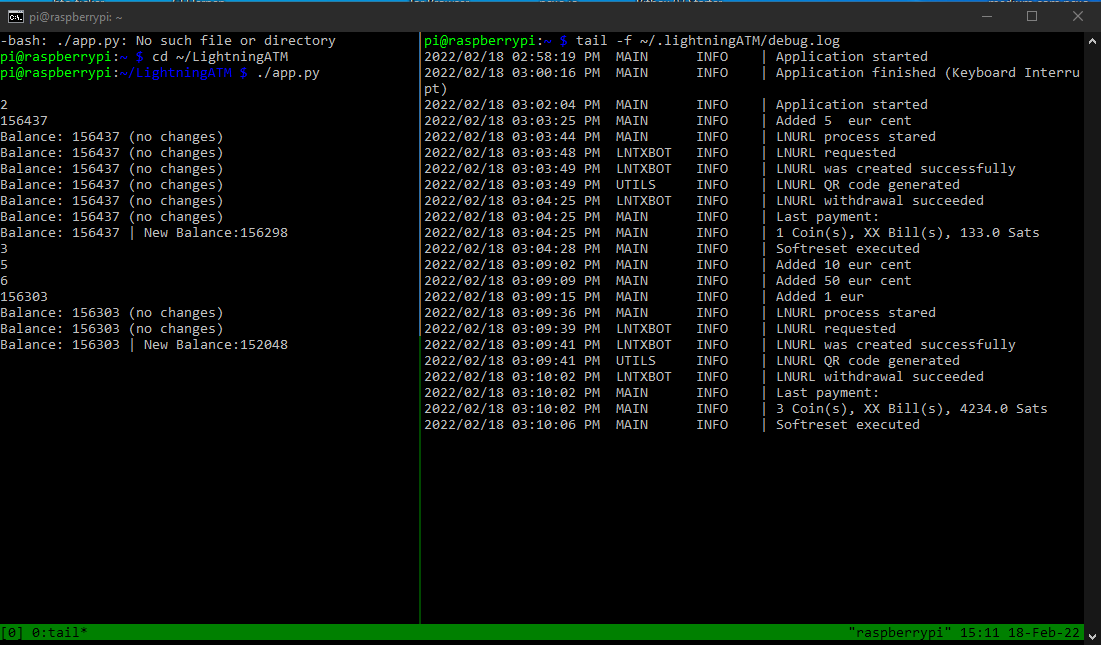
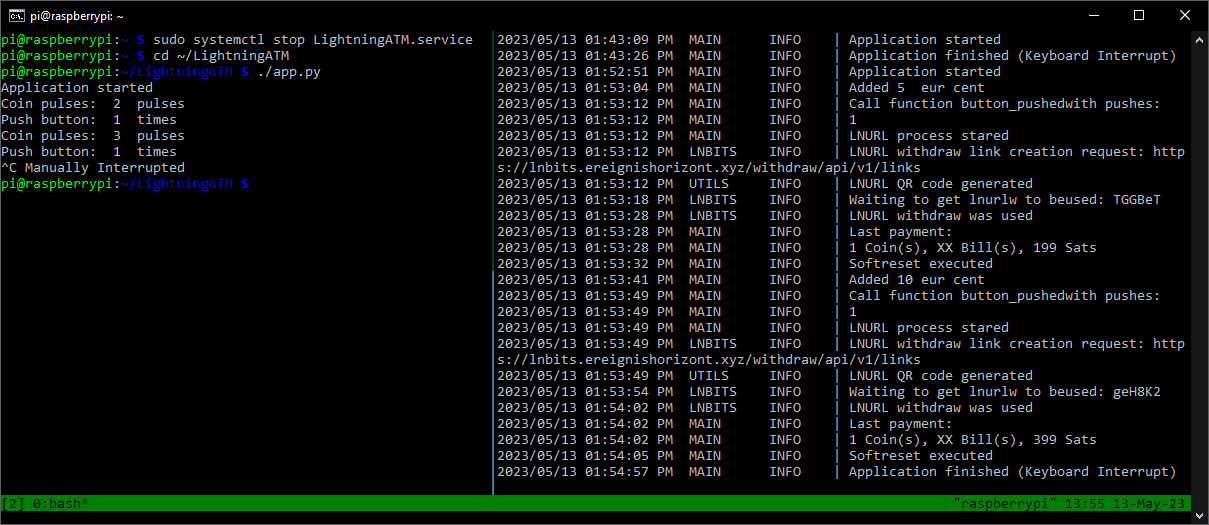
Update docu for lnbits api
Add help page for LNbits Wallet
Add display test picture und possible error and solution

Changed region(s): [[0.0, 0.0, 1.0, 1.0], [0.0, 0.4267, 0.2779, 0.5486]]

diff --git a/docs/guide/perform_update.md b/docs/guide/perform_update.md
@@ -1,0 +1,84 @@
+## Instruction to update the ATM 📜🧐
+
+We have now added LNbits as a new funding source for the LightningATM. 🎉
+
+### 1. Quick guide on how to set up an LNbits wallet
+
+A quick guide how to set up an LNbits wallet find [here](/docs/guide/set_up_an_lnbits_wallet.md)
+
+### 2. Update the LigthningATM 
+
+Connect the ATM to the power supply and log in to your LightningATM via [Wifi/SSH](https://github.com/21isenough/LightningATM/blob/master/docs/guide/sdcard_and_wifi.md#carry-out-basic-software-settings-and-updates). You may find the IP in the network of your router. Open a command line editor and write the command `ssh pi@192.168.x.x`. Hopefully you still have the assigned password. We will now load the new repository on the ATM and activate it. You have to stop the `LightningATM.service` once, otherwise you will get a strange display and the ATM will not work properly.  
+
+    $ sudo systemctl stop LightningATM.service
+    $ cd ~/LightningATM
+    $ git pull
+    
+Now your ATM is set to the new version. Next you have to configure it for the new wallet.
+    
+### 3. Edit the config.ini
+
+    $ nano ~/.lightningATM/config.ini
+
+#### Add the following lines at the very end
+
+```
+[lnbits]
+# api credentials
+url = https://legend.lnbits.com/api/v1
+apikey = 
+# One of "invoice" or "lnurlw"
+method = lnurlw
+# only for lnurlw - millisseconds to redeem the lnurlw
+timeout = 90000
+```
+
+`Note:` Customize your `apikey = 8682516eaf0c457...` from the LNbis wallet.
+
+#### Change active wallet to lnbits
+
+    [atm]
+    ..
+    activewallet = lnbits
+    
+#### Check the config.ini again
+
+One or the other may have an older version of the LightningATM. Two things have been added. The option language and camera. Check if you have the following variable under [ATM]. If not, add them.
+
+    [atm]
+    ..
+    # Set language: "en", "de", "fr", "it", "es", "pt", "tr" currently available
+    language = en
+
+    # Do you have a camera? "False" or "True"
+    camera = False
+    
+Example, see [here](https://github.com/21isenough/LightningATM/blob/master/example_config.ini).
+    
+Save and exit editor: `CTRL+x` -> `y` -> `Enter`
+   
+### 4. Start ATM for testing
+
+    $ cd LightningATM
+    $ ./app.py
+
+- It takes a few seconds for the display to update..
+- The ATM has started and you can use it normally or test the functions.
+- Stop the ATM with `CTRL+C`
+
+To debug: Launch a second terminal window, login with ssh and access logs with 
+
+    $ tail -f ~/.lightningATM/debug.log
+    
+Log file to debug
+![Log file to debug](../pictures/perform_update_logs.png)
+
+### 5. Final step
+
+Restart the LightningATM service
+
+    $ sudo systemctl start LightningATM.service
+
+- Your ATM should now restart as usual
+
+#### [README](/README.md)  ᐊ  previous

diff --git a/docs/guide/edit_config.md b/docs/guide/edit_config.md
@@ -46,26 +46,27 @@ $ nano ~/.lightningATM/config.ini
 - Its needed for the the pocket version, because it has no push button for confimrmation. The invoice will be generated automatically after 12 seconds.
 - Note: If you have a button version, you must keep the 0.
 
-#### Set activate wallet type / example LNTXBOT
+#### Set activate wallet type / example LNbits 
 
 - If you would like to set a BTCPayServer wallet, get further information here: [BTCPayServer](https://docs.lightningatm.me/lightningatm-setup/wallet-setup/lnd_btcpay)
-- Note: A good guide to getting started with the LNTXBOT can be found here: [coincharge.io](https://coincharge.io/en/lntxbot-telegram-lightning-wallet/)
+- Note: A quick guide how to set up an LNbits wallet find [here](/docs/guide/set_up_an_lnbits_wallet.md)
 
 ```
-	activewallet = lntxbot
+	activewallet = lnbits
 ```
+#### Under `[lnbits]` customize the data for the LNbits wallet
 
-#### Under `[lntxbot]` enter the data for the API to the lntxbot
-
 ```
-[lntxbot]
-# base64 encoded lntxbot api credentials
-url = https://lntxbot.com
-creds = abc..xyz==
+[lnbits]
+# api credentials
+url = https://legend.lnbits.com/api/v1
+apikey = 
+# One of "invoice" or "lnurlw"
+method = lnurlw
+# only for lnurlw - millisseconds to redeem the lnurlw
+timeout = 90000
 ```
-  
-- Note: The LNTXBOT delivers `url` and `creds` with the command `/lightningATM` from you Telegram bot
-- The structure from the bot answer is build up like: `<creds>@<url>`
+Note: Here you only need to specify the `apikey`. You get this from the [LNbits wallet](/docs/guide/set_up_an_lnbits_wallet.md), e.g. `apikey = 8682516eaf0c457...`
 
 #### Set the coins to the pulses
 

diff --git a/README.md b/README.md
@@ -1,5 +1,7 @@
 # LightningATM
 
+### 🆕🆕🆕 If you want to update your ATM with LNbits, see this guide: [Update](/docs/guide/perform_update.md) 🆕🆕🆕
+
 This LightningATM was built to distribute small amounts of BTC - obviously - it only accepts coins. It shall demonstrate the power of Bitcoins Lightning Network. A two cent coin is enough to buy some satoshis at the LightningATM.
 
 A physical coin exchanged into bitcoin and send to your lightning wallet in seconds. Use this project to educate your family and friends or guests at your bitcoin meetup - a convenient and easy on-boarding process for people that are new to bitcoin.
@@ -38,7 +40,7 @@ _Carry out the points step by step as described here. This is the quickest way t
 - [option: lockout relay](/docs/guide/relay.md)
 - [option: RPi image from scratch](/docs/guide/add_on_zero2.md)
 
-If you want to update your ATM version, see this guide: [Update](/docs/guide/we_need_your_help.md)
+If you want to update your ATM with LNbits, see this guide: [Update](/docs/guide/perform_update.md)
 
 More information of how to setup the LightningATM can be found here https://docs.lightningatm.me. Also join the Telegram group of LightningATM builders here https://t.me/lightningatm_building or contact 21isenough on Twitter (https://twitter.com/21isenough).
 

diff --git a/docs/guide/set_up_an_lnbits_wallet.md b/docs/guide/set_up_an_lnbits_wallet.md
@@ -1,0 +1,15 @@
+## Quick guide on how to set up an LNbits wallet
+
+- Go e.g. to the [ledgend.lnbits.com](https://legend.lnbits.com/) demo server
+- Assign a name and press `ADD A NEW WALLET`
+- Bookmark the page and/or copy and paste the URL to a safe place. This will log you in to your wallet.
+- Understand the warning! It is a demo server for testing. Keep only the necessary Satoshis in the wallet. 
+- See a pop-up menu box on the right or bottom labeled `API info` and open it.
+- You should see `Admin key: 8682516eaf0c457...`. The number-letter combination is the 'apikey' that you will need afterwards.
+- But before that you need to install an extension. Go to `Extensions`, search for `LNURLw` and activate it with `ENABLE`.
+- Fund the wallet with a few thousand Satoshis.
+
+LNbits Wallet
+![LNbits Wallet](../pictures/set_up_an_lnbits_wallet.png)
+
+#### [edit_config](/docs/guide/edit_config.md)  ᐊ  previous

diff --git a/docs/guide/display.md b/docs/guide/display.md
@@ -28,6 +28,28 @@ display demo
 
 <img src="../pictures/display_demo.jpg" width="500">
 
+display test example
+
+<img src="../pictures/display_test.png" width="700">
+
+Possible source of error 
+
+`AttributeError: 'SpiDev' object has no attribute 'writebytes2'`
+
+<img src="../pictures/display_fault.png" width="600">
+
+Solution:
+
+```
+$ cd
+$ sudo rm -r e-Paper
+$ git clone https://github.com/AxelHamburch/e-Paper/
+$ cd ~/e-Paper/RaspberryPi*/python
+$ sudo python3 setup.py install
+$ cd ~/e-Paper/RaspberryPi_JetsonNano/python/examples
+$ sudo python3 ./epd_2in13d_test.py   # Change it to your version
+```
+
 `Note:` If it dose not work, check the wiring and your display version again.
 
 ---

diff --git a/docs/guide/tmux_monitoring.md b/docs/guide/tmux_monitoring.md
@@ -51,7 +51,7 @@ Example tmux window
 
 ![tmux window](../pictures/tmux_monitoring_terminal.png)
 
-Two withdrawals were made here. Once 5 cents and once 1.60 euros (10 cents + 50 cents + 1 euro). Left side you see the pulses. Right side you see the coins to it. 2 = 5 Cent, 3 = 10 Cent, 5 = 50 Cent, 6 = 1 Euro. The final balance is 152048 satoshis.
+Two withdrawals were made here. Once 5 cents and once 10 cent. Left side you see the pulses. Right side you see the coins to it. 2 pulses = 5 Cent = 199 Sats and 3 pulses = 10 Cent = 399 Sats. After that the program was stopped manually with CTRL+c.
 
 ---
 
